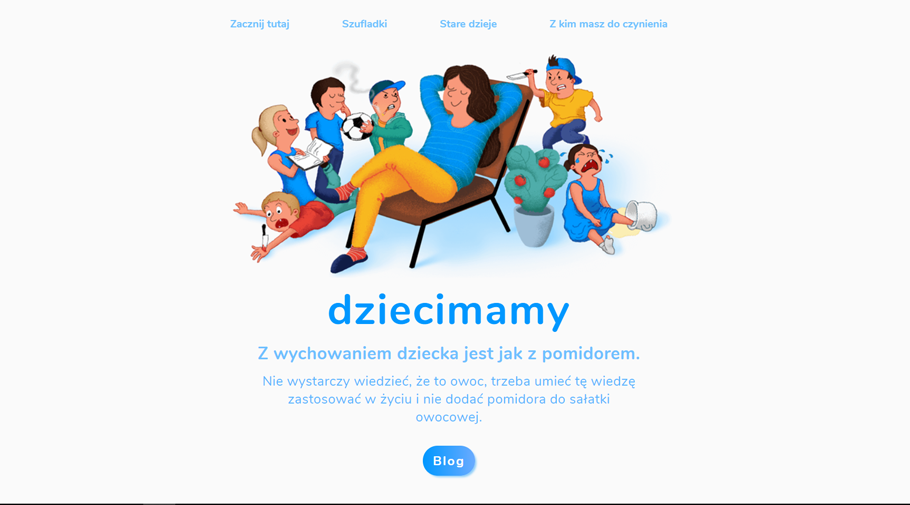
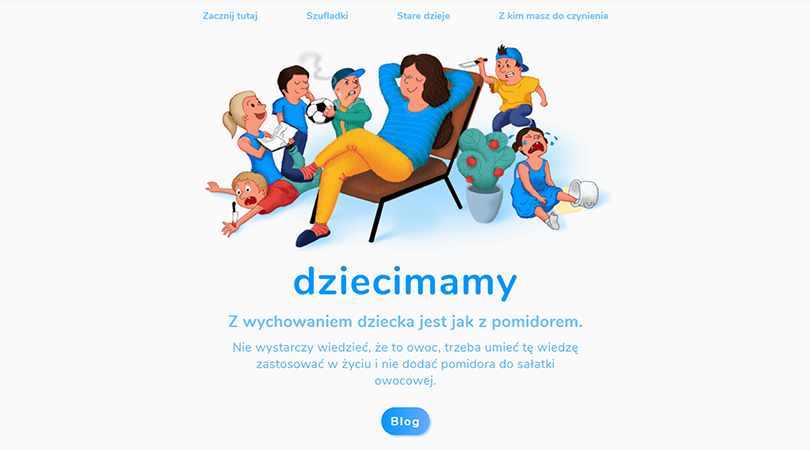
added hamburger

diff --git a/public_html/zenscroll/zenscroll-min.js b/public_html/zenscroll/zenscroll-min.js
@@ -1,0 +1,1 @@
+!function(t,e){"function"==typeof define&&define.amd?define([],e()):"object"==typeof module&&module.exports?module.exports=e():function n(){document&&document.body?t.zenscroll=e():setTimeout(n,9)}()}(this,function(){"use strict";var t=function(t){return t&&"getComputedStyle"in window&&"smooth"===window.getComputedStyle(t)["scroll-behavior"]};if("undefined"==typeof window||!("document"in window))return{};var e=function(e,n,o){n=n||999,o||0===o||(o=9);var i,r=function(t){i=t},u=function(){clearTimeout(i),r(0)},c=function(t){return Math.max(0,e.getTopOf(t)-o)},a=function(o,i,c){if(u(),0===i||i&&i<0||t(e.body))e.toY(o),c&&c();else{var a=e.getY(),f=Math.max(0,o)-a,s=(new Date).getTime();i=i||Math.min(Math.abs(f),n),function t(){r(setTimeout(function(){var n=Math.min(1,((new Date).getTime()-s)/i),o=Math.max(0,Math.floor(a+f*(n<.5?2*n*n:n*(4-2*n)-1)));e.toY(o),n<1&&e.getHeight()+o<e.body.scrollHeight?t():(setTimeout(u,99),c&&c())},9))}()}},f=function(t,e,n){a(c(t),e,n)},s=function(t,n,i){var r=t.getBoundingClientRect().height,u=e.getTopOf(t)+r,s=e.getHeight(),l=e.getY(),d=l+s;c(t)<l||r+o>s?f(t,n,i):u+o>d?a(u-s+o,n,i):i&&i()},l=function(t,n,o,i){a(Math.max(0,e.getTopOf(t)-e.getHeight()/2+(o||t.getBoundingClientRect().height/2)),n,i)};return{setup:function(t,e){return(0===t||t)&&(n=t),(0===e||e)&&(o=e),{defaultDuration:n,edgeOffset:o}},to:f,toY:a,intoView:s,center:l,stop:u,moving:function(){return!!i},getY:e.getY,getTopOf:e.getTopOf}},n=document.documentElement,o=function(){return window.scrollY||n.scrollTop},i=e({body:document.scrollingElement||document.body,toY:function(t){window.scrollTo(0,t)},getY:o,getHeight:function(){return window.innerHeight||n.clientHeight},getTopOf:function(t){return t.getBoundingClientRect().top+o()-n.offsetTop}});if(i.createScroller=function(t,o,i){return e({body:t,toY:function(e){t.scrollTop=e},getY:function(){return t.scrollTop},getHeight:function(){return Math.min(t.clientHeight,window.innerHeight||n.clientHeight)},getTopOf:function(t){return t.offsetTop}},o,i)},"addEventListener"in window&&!window.noZensmooth&&!t(document.body)){var r="history"in window&&"pushState"in history,u=r&&"scrollRestoration"in history;u&&(history.scrollRestoration="auto"),window.addEventListener("load",function(){u&&(setTimeout(function(){history.scrollRestoration="manual"},9),window.addEventListener("popstate",function(t){t.state&&"zenscrollY"in t.state&&i.toY(t.state.zenscrollY)},!1)),window.location.hash&&setTimeout(function(){var t=i.setup().edgeOffset;if(t){var e=document.getElementById(window.location.href.split("#")[1]);if(e){var n=Math.max(0,i.getTopOf(e)-t),o=i.getY()-n;0<=o&&o<9&&window.scrollTo(0,n)}}},9)},!1);var c=new RegExp("(^|\\s)noZensmooth(\\s|$)");window.addEventListener("click",function(t){for(var e=t.target;e&&"A"!==e.tagName;)e=e.parentNode;if(!(!e||1!==t.which||t.shiftKey||t.metaKey||t.ctrlKey||t.altKey)){if(u){var n=history.state&&"object"==typeof history.state?history.state:{};n.zenscrollY=i.getY();try{history.replaceState(n,"")}catch(t){}}var o=e.getAttribute("href")||"";if(0===o.indexOf("#")&&!c.test(e.className)){var a=0,f=document.getElementById(o.substring(1));if("#"!==o){if(!f)return;a=i.getTopOf(f)}t.preventDefault();var s=function(){window.location=o},l=i.setup().edgeOffset;l&&(a=Math.max(0,a-l),r&&(s=function(){history.pushState({},"",o)})),i.toY(a,null,s)}}},!1)}return i});

diff --git a/src/sass/variables.scss b/src/sass/variables.scss
@@ -5,32 +5,32 @@ $grey: rgba(0, 0, 0, 0.424);
 $shadow: 3px 4px 14px 1px darken($orangeD, 3);
 
 $m: 'Merriweather', serif;
-$f: Karla;
+$f: 'Karla', serif;
 
-@font-face {
-    font-family: 'Karla';
-    src: url('../../fonts/Karla-Regular.woff');
-    font-weight: normal;
-    font-style: normal;
-}
-@font-face {
-    font-family: 'Karla';
-    src: url('../../fonts/Karla-Bold.woff');
-    font-weight: Bold;
-    font-style: normal;
-}
-@font-face {
-    font-family: 'Karla';
-    src: url('../../fonts/Karla-Italic.woff');
-    font-weight: normal;
-    font-style: italic;
-}
-@font-face {
-    font-family: 'Karla';
-    src: url('../../fonts/Karla-Bolditalic.woff');
-    font-weight: Bold;
-    font-style: italic;
-}
+// @font-face {
+//     font-family: 'Karla';
+//     src: url('../../fonts/Karla-Regular.woff');
+//     font-weight: normal;
+//     font-style: normal;
+// }
+// @font-face {
+//     font-family: 'Karla';
+//     src: url('../../fonts/Karla-Bold.woff');
+//     font-weight: Bold;
+//     font-style: normal;
+// }
+// @font-face {
+//     font-family: 'Karla';
+//     src: url('../../fonts/Karla-Italic.woff');
+//     font-weight: normal;
+//     font-style: italic;
+// }
+// @font-face {
+//     font-family: 'Karla';
+//     src: url('../../fonts/Karla-Bolditalic.woff');
+//     font-weight: Bold;
+//     font-style: italic;
+// }
 
 ::-moz-selection { background: $orangeL; color: white; }
 ::selection { background: $orangeL; color: white; }

diff --git a/public_html/index.html b/public_html/index.html
@@ -1,0 +1,32 @@
+<!doctype html>
+<html lang="en">
+<head>
+  <meta charset="utf-8">
+  <title>Filip Kajetaniak portfolio</title>
+  <link rel="stylesheet" href="css/app.css" />
+  <link href="https://fonts.googleapis.com/css?family=Merriweather:400,400i,700" rel="stylesheet">
+  <link rel="stylesheet" href="https://use.fontawesome.com/releases/v5.0.13/css/all.css" integrity="sha384-DNOHZ68U8hZfKXOrtjWvjxusGo9WQnrNx2sqG0tfsghAvtVlRW3tvkXWZh58N9jp" crossorigin="anonymous">
+</head>
+<body>
+      <nav class="navbar">
+        <div class="menu-item" id="about">About</div>
+        <div class="menu-item" id="work">Work</div>
+        <div class="menu-item" id="contact">Contact</div>
+        <div id="underline"></div>
+        <div id="lang" class="en-active">
+          <div id="en">EN</div>
+          <div id="pl">PL</div>
+        </div>
+      </nav>
+      <section id="slot" class="slot"></section>
+      <footer>
+        <a href="https://github.com/FilipKajetaniak"><i class="fab fa-github"></i></a>
+        <a href="https://codepen.io/FilipKajetaniak/"><i class="fab fa-codepen"></i></a>
+        <a href="#"><i class="fab fa-linkedin"></i></a>
+        <span>© 2018 FILIP KAJETANIAK</span>
+      </footer>
+      <div id="cover-img"></div>
+  <script src="./zenscroll/zenscroll-min.js"></script>
+  <script src="js/app.js"></script>
+</body>
+</html>

diff --git a/index.html b/index.html
@@ -2,9 +2,11 @@
 <html lang="en">
 <head>
   <meta charset="utf-8">
+  <meta name="viewport" content="width=device-width, initial-scale=1.0">
   <title>Filip Kajetaniak portfolio</title>
   <link rel="stylesheet" href="css/app.css" />
   <link href="https://fonts.googleapis.com/css?family=Merriweather:400,400i,700" rel="stylesheet">
+  <link href="https://fonts.googleapis.com/css?family=Karla:400,700&amp;subset=latin-ext" rel="stylesheet">
   <link rel="stylesheet" href="https://use.fontawesome.com/releases/v5.0.13/css/all.css" integrity="sha384-DNOHZ68U8hZfKXOrtjWvjxusGo9WQnrNx2sqG0tfsghAvtVlRW3tvkXWZh58N9jp" crossorigin="anonymous">
 </head>
 <body>
@@ -17,6 +19,7 @@
           <div id="en">EN</div>
           <div id="pl">PL</div>
         </div>
+        <i id="hamburger" class="fas fa-bars"></i>
       </nav>
       <section id="slot" class="slot"></section>
       <footer>

diff --git a/src/sass/projects.scss b/src/sass/projects.scss
@@ -157,6 +157,7 @@
         -webkit-box-shadow: -25px 25px 52px -3px #81061b9d;
         -moz-box-shadow: -25px 25px 52px -3px #81061b9d;
         box-shadow: -25px 25px 52px -3px #81061b9d;
+        background-image: url('~/img/portfolio.png');
     }
 }
 
@@ -167,6 +168,7 @@
         -webkit-box-shadow: -25px 25px 52px -3px #1211189d;
         -moz-box-shadow: -25px 25px 52px -3px #1211189d;
         box-shadow: -25px 25px 52px -3px #1211189d;
+        background-image: url('~/img/stock.png');
     }
 }
 
@@ -177,6 +179,7 @@
         -webkit-box-shadow: -25px 25px 52px -3px #1211189d;
         -moz-box-shadow: -25px 25px 52px -3px #1211189d;
         box-shadow: -25px 25px 52px -3px #001b3f9d;
+        background-image: url('~/img/novak.png');
     }
 }
 

diff --git a/src/sass/reset.scss b/src/sass/reset.scss
@@ -2,6 +2,7 @@
   -webkit-font-smoothing: antialiased;
   -moz-osx-font-smoothing: grayscale;
   box-sizing: border-box;
+  -webkit-tap-highlight-color:  rgba(255, 255, 255, 0);
 }
 
 html, body, div, span, applet, object, iframe, h1, h2, h3, h4, h5, h6, p, blockquote, pre, a, abbr, acronym, address, big, cite, code, del, dfn, em, img, ins, kbd, q, s, samp, small, strike, strong, sub, sup, tt, var, b, u, i, center, dl, dt, dd, ol, ul, li, fieldset, form, label, legend, table, caption, tbody, tfoot, thead, tr, th, td, article, aside, canvas, details, embed, figure, figcaption, footer, header, hgroup, menu, nav, output, ruby, section, summary, time, mark, audio, video {

diff --git a/src/sass/nav.scss b/src/sass/nav.scss
@@ -12,6 +12,24 @@
     font-family: $f;
     overflow: hidden;
     clear: both;
+    div{
+        @include mobile {
+            display: none;
+        }
+    }
+    i{  
+        display: none;
+        font-size: 1.4em;
+        cursor: pointer;
+        line-height: 60px;
+        transition: 300ms all cubic-bezier(.85,.05,.2,.98);
+        @include mobile {
+            display: inline-block;
+        }
+    }
+    .open-menu{
+        transform: rotate(180deg);
+    }
     .menu-item{
         padding-right: 30px;
         cursor: pointer;

diff --git a/src/sass/main.scss b/src/sass/main.scss
@@ -48,7 +48,19 @@ b{
     left: 50%;
     margin-left: -405px;
     display: none;
+}
+
+.cover-dziecimamy{
     background-image: url('~/img/dziecimamy.png');
+}
+.cover-kajetaniak{
+    background-image: url('~/img/portfolio.png');    
+}
+.cover-stock{
+    background-image: url('~/img/stock.png');   
+}
+.cover-novak{
+    background-image: url('~/img/novak.png');   
 }
 
 footer{

diff --git a/src/sass/portfolio.scss b/src/sass/portfolio.scss
@@ -16,7 +16,7 @@
     .article-img{
         height: 450px;
         width: 100%;
-        background-image: url('~/img/dziecimamy.png');
+        background-image: url('~/img/portfolio.png');
         background-size: cover;
         margin-bottom: 50px;
     }

diff --git a/src/sass/novak.scss b/src/sass/novak.scss
@@ -16,7 +16,7 @@
     .article-img{
         height: 450px;
         width: 100%;
-        background-image: url('~/img/dziecimamy.png');
+        background-image: url('~/img/novak.png');
         background-size: cover;
         margin-bottom: 50px;
     }

diff --git a/src/sass/stock.scss b/src/sass/stock.scss
@@ -16,7 +16,7 @@
     .article-img{
         height: 450px;
         width: 100%;
-        background-image: url('~/img/dziecimamy.png');
+        background-image: url('~/img/stock.png');
         background-size: cover;
         margin-bottom: 50px;
     }

diff --git a/src/sass/heading.scss b/src/sass/heading.scss
@@ -9,7 +9,7 @@
         font-size: 15px;
     }
     @include mobile {
-        padding: 60px 10px 0 10px;
+        padding: 60px 30px 0 30px;
         font-size: 15px;
     }
     .resizable{
